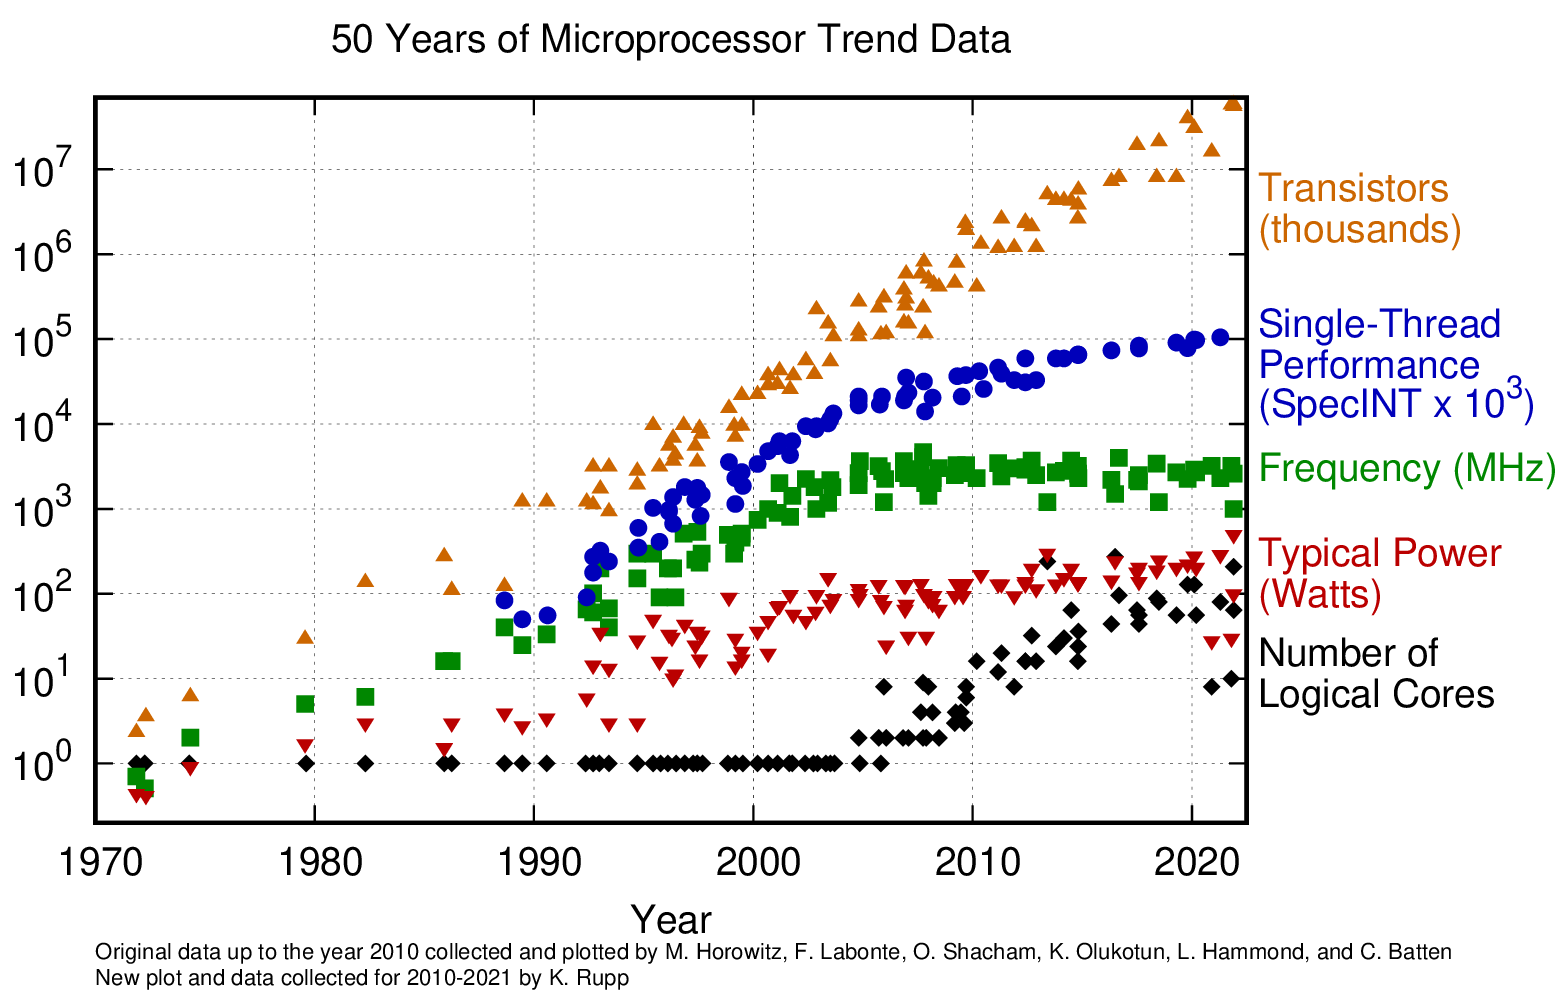
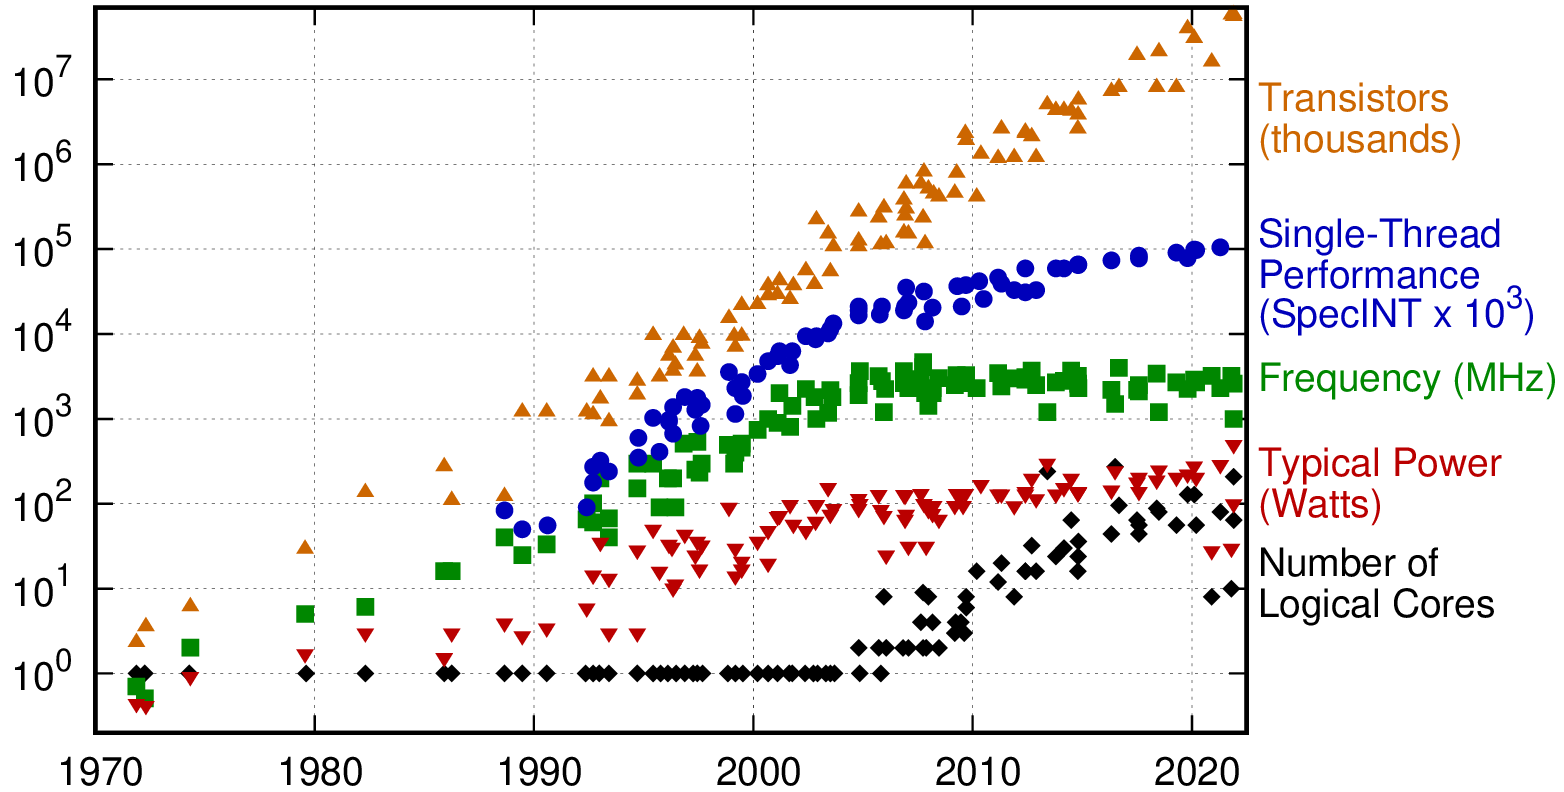
[Chapter 1] cosmetics. part1

diff --git a/chapters/1-Introduction/1-4 What is in the book.md b/chapters/1-Introduction/1-4 What is in the book.md
@@ -1,23 +1,30 @@
----
-typora-root-url: ..\..\img
----
-
 ## What Is Discussed in this Book?
 
-This book is written to help developers better understand the performance of their application, learn to find inefficiencies, and eliminate them. *Why my hand-written compression algorithm performs two times slower than the conventional one? Why did my change in the function cause performance to drop by half? Customers are complaining about the slowness of my application, where should I start? Have I optimized the program to its full potential? What performance analysis tools are available on my platform? What are the techniques to reduce the number of cache misses and branch mispredictions?* Hopefully, by the end of this book, you will have the answers to those questions.
+This book is written to help developers better understand the performance of their application, learn to find inefficiencies, and eliminate them. 
 
-Here is the outline of what this book contains:
+* Why my hand-written compression algorithm performs two times slower than the conventional one? 
+* Why did my change in the function cause 2x performance drop? 
+* Customers are complaining about the slowness of my application, where should I start?
+* Have I optimized the program to its full potential? 
+* What performance analysis tools are available on my platform? 
+* What are the techniques to reduce the number of cache misses and branch mispredictions?
 
-[TODO]: update below
+Hopefully, by the end of this book, you will have the answers to those questions.
 
+The book is split into two parts: performance analysis and performance optimization. The first part (chapters 2-7) teaches you how to find performance problems, the second part (chapters 8-13) teaches you how to fix them. Here is the outline of book chapters:
+
+* Chapter 1 is an introduction that you're reading right now.
 * Chapter 2 discusses how to conduct fair performance experiments and analyze their results. It introduces the best practices for performance testing and comparing results.
-* Chapters 3 provides basics of CPU microarchitecture and Chapter 4 covers terminology and metrics used in performance analysis; we recommend you not to skip these chapters even if you think you know this already. 
-* Chapter 5 explores several of the most popular approaches for doing performance analysis. It explains how profiling techniques work, what runtime data can be collected, and how it can be done.
-* Chapter 6 examines features provided by modern CPUs to support and enhance performance analysis. It shows how they work and what problems they can solve.
+* Chapter 3 provides basics of CPU microarchitecture. You will see how theoretical ideas find their implementation by taking a closer look at Intel's Goldencove microarchitecture. 
+* Chapter 4 covers terminology and metrics used in performance analysis. At the end of the chapter, we present a case study that features various performance metrics collected on four real-world applications.
+* Chapter 5 explores the most popular performance analysis approaches. We describe how profiling tools work and what sort of data you can collect by using them.
+* Chapter 6 examines features provided by modern Intel, AMD, and ARM-based CPUs to support and enhance performance analysis. It shows how they work and what problems they help to solve.
 * Chapter 7 gives an overview of the most popular tools available on major platforms, including Linux, Windows and MacOS, running on x86- and ARM-based processors.
-* Chapters 8-11 contain recipes for typical performance problems. These chapters are organized according to the Top-down Microarchitecture Analysis methodology, which is one of the most important concepts of the book. Don't worry if some terms are not yet clear to you, we will cover everything step by step. Chapter 8 (Memory Bound) is about optimizing memory accesses, cache friendly code, memory profiling, huge pages, and a few other techniques. Chapter 9 (Core Bound) is about optimizing computations and explores function inlining, loop optimizations, and vectorization. Chapter 10 (Bad Speculation) is about branchless programming that is used to avoid frequently mispredicted branches. Chapter 11 (FrontEnd Bound) is about machine code layout optimizations, such as basic block placement, function splitting, profile-guided optimizations and others.
-* Chapter 13 contains optimization topics not specifically related to any of the categories covered in the previous four chapters, but are still important enough to find their place in this book. There you will find low-latency techniques, tips on tuning your system for the best performance, faster alternatives to standard library funcitons, and others.
-* Chapter 14 discusses techniques for analyzing multithreaded applications. It outlines some of the most important challenges of optimizing the performance of multithreaded applications and the tools that can be used to analyze them. The topic itself is quite big, so the chapter only focuses on HW-specific issues, like "False Sharing".
-* Chapter 15 talks about the current and future trends in the world of SW and HW performance. We discuss advances in traditional design of computer systems as well as some innovative ideas.
+* Chapter 8 is about optimizing memory accesses, cache friendly code, data structure reorganization, and other techniques.
+* Chapter 9 is about optimizing computations; it explores data dependencies, function inlining, loop optimizations, and vectorization.
+* Chapter 10 is about branchless programming, which is used to avoid branch misprediction.
+* Chapter 11 is about machine code layout optimizations, such as basic block placement, function splitting, profile-guided optimizations and others.
+* Chapter 12 contains optimization topics not specifically related to any of the categories covered in the previous four chapters, but are still important enough to find their place in this book. In this chapter we will discuss CPU-specific optimizations, examine several microarchitecture-related performance problems, explore techniques used for optimizing low-latency applications, and give you advice on tuning your system for the best performance.
+* Chapter 13 discusses techniques for analyzing multithreaded applications. It digs into some of the most important challenges of optimizing the performance of multithreaded applications. We provide a case study of five real-world multithreaded applications, where we explain why their performance doesn't scale with the increasing number of CPU threads. We also discuss cache coherency issues, such as "False Sharing" and a few tools that are designed to analyze multithreaded applications.
 
 Examples provided in this book are primarily based on open-source software: Linux as the operating system, the LLVM-based Clang compiler for C and C++ languages, and Linux `perf` as the profiling tool. The reason for such a choice is not only the popularity of the mentioned technologies but also the fact that their source code is open, which allows us to better understand the underlying mechanism of how they work. This is especially useful for learning the concepts presented in this book. We will also sometimes showcase proprietary tools that are "big players" in their areas, for example, Intel® VTune™ Profiler.

diff --git a/chapters/1-Introduction/1-1 Why do we need perf analysis.md b/chapters/1-Introduction/1-1 Why do we need perf analysis.md
@@ -1,7 +1,3 @@
----
-typora-root-url: ..\..\img
----
-
 ## Why Do We Still Need Performance Tuning?
 
 Modern CPUs are getting more and more cores each year. As of the end of 2019, you can buy a high-end server processor which will have more than 100 logical cores. This is very impressive, but that doesn’t mean we don’t have to care about performance anymore. Very often, application performance might not get better with more CPU cores. The performance of a typical general-purpose multithreaded application doesn't always scale linearly with the number of CPU cores we assign to the task. Understanding why that happens and possible ways to fix it is critical for the future growth of a product. Not being able to do proper performance analysis and tuning leaves lots of performance and money on the table and can kill the product.
@@ -42,10 +38,11 @@ Here are some of the most important factors that prevent systems from achieving 
 2. **Compiler limitations**: *"But isn't it what compilers are supposed to do? Why don't compilers solve all our problems?"* Indeed, compilers are amazingly smart nowadays, but can still generate suboptimal code. Compilers are great at eliminating redundant work, but when it comes to making more complex decisions like function inlining, loop unrolling, etc., they may not generate the best possible code. For example, there is no binary "yes" or "no" answer to the question of whether a compiler should always inline a function into the place where it's called. It usually depends on many factors which a compiler should take into account. Often, compilers rely on complex cost models and heuristics, which may not work for every possible scenario. Additionally, compilers cannot perform optimizations unless they are certain it is safe to do so, and it does not affect the correctness of the resulting machine code. It may be very difficult for compiler developers to ensure that a particular optimization will generate correct code under all possible circumstances, so they often have to be conservative and refrain from doing some optimizations. Finally, compilers generally do not transform data structures used by the program, which are also crucial in terms of performance.
 3. **Algorithmic complexity analysis limitations**: developers are frequently overly obsessed with complexity analysis of the algorithms, which leads them to choose the popular algorithm with the optimal algorithmic complexity, even though it may not be the most efficient for a given problem. Considering two sorting algorithms, InsertionSort and QuickSort, the latter clearly wins in terms of Big O notation for the average case: InsertionSort is O(N^2^) while QuickSort is only O(N log N). Yet for relatively small sizes of `N` (up to 50 elements), InsertionSort outperforms QuickSort. Complexity analysis cannot account for all the branch prediction and caching effects of various algorithms, so people just encapsulate them in an implicit constant `C`, which sometimes can make drastic impact on performance. Blindly trusting Big O notation without testing on the target workload could lead developers down an incorrect path. So, the best-known algorithm for a certain problem is not necessarily the most performant in practice for every possible input. 
 
-Limitations described above leave the room for tuning the performance of our SW to reach its full potential. Broadly speaking, the SW stack includes many layers, e.g., firmware, BIOS, OS, libraries, and the source code of an application. But since most of the lower SW layers are not under our direct control, a major focus will be made on the source code. Another important piece of SW that we will touch on a lot is a compiler. It's possible to obtain attractive speedups by making the compiler generate the desired machine code through various hints. You will find many such examples throughout the book. 
+Limitations described above leave the room for tuning the performance of our SW to reach its full potential. Broadly speaking, the SW stack includes many layers, e.g., firmware, BIOS, OS, libraries, and the source code of an application. But since most of the lower SW layers are not under our direct control, a major focus will be made on the source code. 
 
-\personal{To successfully implement the needed improvements in your application, you don't have to be a compiler expert. Based on my experience, at least 90\% of all transformations can be done at a source code level without the need to dig down into compiler sources. Although, understanding how the compiler works and how you can make it do what you want is always advantageous in performance-related work.}
+Another important piece of SW that we will touch on a lot is a compiler. It's possible to obtain attractive speedups by making the compiler generate the desired machine code through various hints. You will find many such examples throughout the book. Luckily, most of the time, you don't have to be a compiler expert to drive performance improvements in your application. Majority of optimizations can be done at a source code level without the need to dig down into compiler sources. Although, understanding how the compiler works and how you can force it to do what you want is always advantageous in performance-related work.
 
+[TODO]: what value does this paragraph bring? Remove it?
 Also, nowadays, it's essential to enable applications to scale up by distributing them across many cores since single-threaded performance tends to reach a plateau. Such enabling calls for efficient communication between the threads of application, eliminating unnecessary consumption of resources and other issues typical for multi-threaded programs.
 
 It is important to mention that performance gains will not only come from tuning SW. According to [@Leisersoneaam9744], two other major sources of potential speedups in the future are algorithms (especially for new problem domains like machine learning) and streamlined hardware design. Algorithms obviously play a big role in the performance of an application, but we will not cover this topic in this book. We will not be discussing the topic of new hardware designs either since, most of the time, SW developers have to deal with existing HW. However, understanding modern CPU design is important for optimizing applications.

diff --git a/chapters/1-Introduction/1-0 Introduction.md b/chapters/1-Introduction/1-0 Introduction.md
@@ -1,8 +1,4 @@
----
-typora-root-url: ..\..\img
----
-
-# Introduction {#sec:sec1}
+# Introduction {#sec:chapter1}
 
 [TODO]: update the intro. It is the most important part of the book. :) Update that we are now in the beginning of a new era. PC -> mobile -> cloud -> AI?
 
@@ -12,13 +8,11 @@ In the PC era,[^2] developers usually were programming directly on top of the op
 
 Software programmers have had an "easy ride" for decades, thanks to Moore’s law. It used to be the case that some SW vendors preferred to wait for a new generation of HW to speed up their application and did not spend human resources on making improvements in their code. By looking at Figure @fig:50YearsProcessorTrend, we can see that single-threaded performance growth is slowing down. Single-threaded performance is a performance of a single HW thread inside a CPU core when measured in isolation.
 
-![50 Years of Microprocessor Trend Data. *© Image by K. Rupp via karlrupp.net*](../../img/intro/50-years-processor-trend.png){#fig:50YearsProcessorTrend width=90%}
+![50 Years of Microprocessor Trend Data. *© Image by K. Rupp via karlrupp.net*. Original data up to the year 2010 collected and plotted by M. Horowitz, F. Labonte, O. Shacham, K. Olukotun, L. Hammond, and C. Batten. New plot and data collected for 2010-2021 by K. Rupp.](../../img/intro/50-years-processor-trend.png){#fig:50YearsProcessorTrend width=100%}
 
 When it's no longer the case that each HW generation provides a significant performance boost [@Leisersoneaam9744], we must start paying more attention to how fast our code runs. When seeking ways to improve performance, developers should not rely on HW. Instead, they should start optimizing the code of their applications.
 
 > “Software today is massively inefficient; it’s become prime time again for software programmers to get really good at optimization.” - Marc Andreessen, the US entrepreneur and investor (a16z Podcast, 2020)
-
-\personal{While working at Intel, I hear the same story from time to time: when Intel clients experience slowness in their application, they immediately and unconsciously start blaming Intel for having slow CPUs. But when Intel sends one of our performance ninjas to work with them and help them improve their application, it is not unusual that they help speed it up by a factor of 2x, sometimes even 10x.}
 
 Reaching high-level performance is challenging and usually requires substantial efforts, but hopefully, this book will give you the tools to help you achieve it.
 

diff --git a/chapters/1-Introduction/1-6 Exercises.md b/chapters/1-Introduction/1-6 Exercises.md
@@ -1,5 +1,7 @@
 ## Exercises
 
-As a supplemental material for this book, we developed a collection of free lab assignments that are available at [https://github.com/dendibakh/perf-ninja](https://github.com/dendibakh/perf-ninja). Performance Ninja is an online course where you can practice low-level performance analysis and tuning. We offer lab assignments from that repository throughout the book. For example, when you see `perf-ninja::warmup`, this corresponds to the lab assignment that is located in `labs/misc/warmup` folder of the aforementioned repository.
+As a supplemental material for this book, we developed Performance Ninja, a free online course where you can practice low-level performance analysis and tuning. It is available at the following URL: [https://github.com/dendibakh/perf-ninja](https://github.com/dendibakh/perf-ninja). It has a collection of lab assignments that focus on a specific performance problem. Each lab assignment can take anywhere from 30 mins up to 4 hours depending on your background and the complexity of the lab assignment itself.
 
-You can solve those assignments on your local machine or submit your code to GitHub for automated benchmarking. If you choose the latter, follow the instructions on the "Get Started" page of the repo. If you're stuck on a problem, you can check the videos associated with the lab. Those videos explain a possible solution to a problem.
+Following the name of the GitHub repository, we will use `perf-ninja` to refer to the online course. In the "Questions and Exercises" section at the end of each chapter, you may find assignments from `perf-ninja`. For example, when you see `perf-ninja::warmup`, this corresponds to the lab assignment that is located in `labs/misc/warmup` folder in the aforementioned repository. We encourage you to solve these puzzles to solidify your knowledge.
+
+You can solve assignments on your local machine or submit your code changes to GitHub for automated verification and benchmarking. If you choose the latter, follow the instructions on the "Get Started" page of the repo. We also use examples from `perf-ninja` throughout the book. This enables you to reproduce a specific performance problem on your own machine and experiment with it.

diff --git a/chapters/0-Preface/0-2 Preface.md b/chapters/0-Preface/0-2 Preface.md
@@ -22,6 +22,9 @@ I remember the days when I was starting with performance analysis. I was staring
 
 Developers who consider themselves beginners in performance analysis can start from the beginning of the book and read sequentially, chapter by chapter. Chapters 2-4 give developers a minimal set of knowledge required by later chapters. Readers already familiar with these concepts may choose to skip those. Additionally, this book can be used as a reference or a checklist for optimizing SW applications. Developers can use chapters 7-11 as a source of ideas for tuning their code.
 
+[TODO]: add
+\personal{While working at Intel, I hear the same story from time to time: when Intel clients experience slowness in their application, they immediately and unconsciously start blaming Intel for having slow CPUs. But when Intel sends one of our performance ninjas to work with them and help them improve their application, it is not unusual that they help speed it up by a factor of 2x, sometimes even 10x.}
+
 ## Target Audience {.unlisted .unnumbered}
 
 This book will be primarily useful for software developers who work with performance-critical applications and do low-level optimizations. To name just a few areas: High-Performance Computing (HPC), Game Development, data-center applications (like Facebook, Google, etc.), High-Frequency Trading. But the scope of the book is not limited to the mentioned industries. This book will be useful for any developer who wants to understand the performance of their application better and know how it can be diagnosed and improved. The author hopes that the material presented in this book will help readers develop new skills that can be applied in their daily work.

diff --git a/chapters/1-Introduction/1-2 Who needs performance analysis.md b/chapters/1-Introduction/1-2 Who needs performance analysis.md
@@ -1,7 +1,3 @@
----
-typora-root-url: ..\..\img
----
-
 ## Who Needs Performance Tuning?
 
 Performance engineering does not need to be justified much in industries like High-Performance Computing (HPC), Cloud Services, High-Frequency Trading (HFT), Game Development, and other performance-critical areas. For instance, Google reported that a 2% slower search caused [2% fewer searches](https://assets.en.oreilly.com/1/event/29/Keynote Presentation 2.pdf) per user.[^3] For Yahoo! 400 milliseconds faster page load caused [5-9% more traffic](https://www.slideshare.net/stoyan/dont-make-me-wait-or-building-highperformance-web-applications).[^4] In the game of big numbers, small improvements can make a significant impact. Such examples prove that the slower the service works, the fewer people will use it. 

diff --git a/chapters/1-Introduction/1-3 What is performance analysis.md b/chapters/1-Introduction/1-3 What is performance analysis.md
@@ -1,7 +1,3 @@
----
-typora-root-url: ..\..\img
----
-
 ## What Is Performance Analysis?
 
 Ever found yourself debating with a coworker about the performance of a certain piece of code? Then you probably know how hard it is to predict which code is going to work the best. With so many moving parts inside modern processors, even a small tweak to the code can trigger significant performance change. That’s why the first advice in this book is: *Always Measure*. Many people rely on intuition when they try to optimize their application. And usually, it ends up with random fixes here and there without making any real impact on the performance of the application.

diff --git a/chapters/1-Introduction/1-7 Chapter Summary.md b/chapters/1-Introduction/1-7 Chapter Summary.md
@@ -1,7 +1,3 @@
----
-typora-root-url: ..\..\img
----
-
 ## Chapter Summary {.unlisted .unnumbered}
 
 * The single-threaded performance of CPUs is not increasing as rapidly as it used to a few decades ago. That is why performance tuning is becoming more important than it has been for the last 40 years. The computing industry is changing now much more heavily than at any time since the 90s.

diff --git a/chapters/1-Introduction/1-5 What is not in this book.md b/chapters/1-Introduction/1-5 What is not in this book.md
@@ -1,7 +1,3 @@
----
-typora-root-url: ..\..\img
----
-
 ## What Is not Discussed in this Book?
 
 [TODO]: second edition talks much more about system performance, especially memory subsystem. Also, we talk about compilers.
